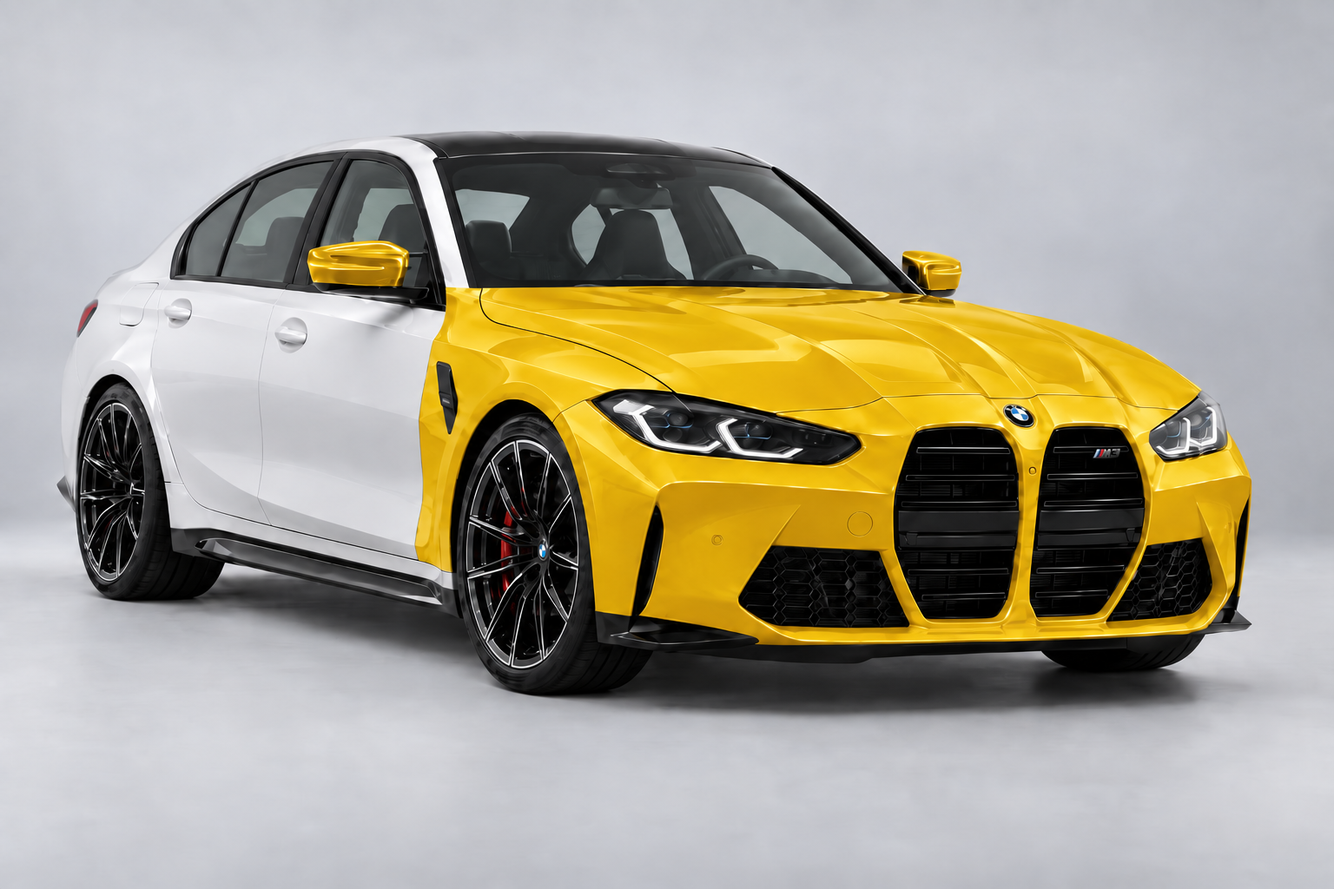
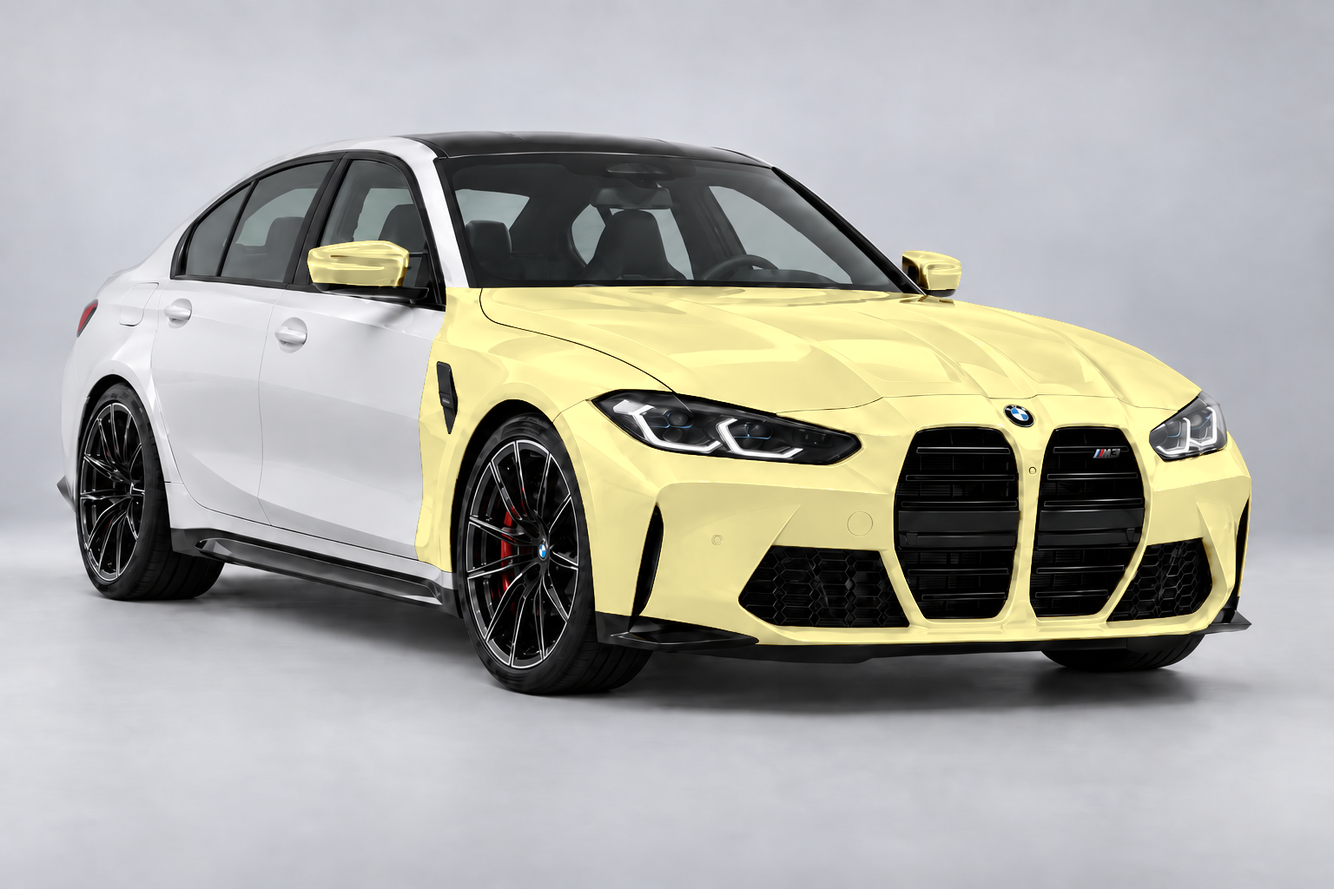
Update PPF page, add video and photo sections
- PPF: pale yellow film tint over white paint, color key, visual-guide note, Front-end default tab
- Home and About: YouTube section with VideoObject structured data
- About: Instagram section, Showcase photos, Owner / Team above Showcase

Changed region(s): [[0.2188, 0.25, 0.9375, 0.75]]

diff --git a/about.html b/about.html
@@ -28,8 +28,9 @@ body{font-family:Inter,system-ui,sans-serif;background:#050505;color:#e4e4e7}
 .card{background:#111;border:1px solid #222}
 .btn{position:relative;overflow:hidden;background:linear-gradient(145deg,#f5dfa0 0%,#d4af37 45%,#9c7a22 100%);color:#140f00;font-weight:600;box-shadow:inset 0 1px 0 rgba(255,255,255,.55),inset 0 -2px 4px rgba(0,0,0,.25),0 6px 16px -6px rgba(212,175,55,.55);transition:transform .25s ease,box-shadow .25s ease,filter .25s ease}.btn:hover{transform:translateY(-2px);filter:brightness(1.05);box-shadow:inset 0 1px 0 rgba(255,255,255,.6),inset 0 -2px 4px rgba(0,0,0,.25),0 10px 24px -6px rgba(212,175,55,.7)}.btn:active{transform:translateY(0)}.btn::before{content:'';position:absolute;inset:0;background:linear-gradient(115deg,transparent 30%,rgba(255,255,255,.55) 48%,rgba(255,255,255,.15) 56%,transparent 70%);transform:translateX(-120%);transition:transform .6s ease}.btn:hover::before{transform:translateX(120%)}
 .h2{font-size:clamp(2rem,5vw,3.1rem);font-weight:700}
-.avatar{width:76px;height:76px;border-radius:9999px;background:linear-gradient(145deg,#f5dfa0 0%,#d4af37 45%,#9c7a22 100%);color:#140f00;display:flex;align-items:center;justify-content:center;font-weight:700;font-size:1.25rem}
-.showcase-tile{aspect-ratio:4/3;background:#111;border:1px solid #222;border-radius:1.5rem;display:flex;align-items:center;justify-content:center;color:rgba(255,255,255,.2)}
+.avatar{width:76px;height:76px;border-radius:9999px;background:linear-gradient(145deg,#2a2a2a 0%,#1a1a1a 100%);border:1px solid rgba(212,175,55,.3);color:#f0c869;display:flex;align-items:center;justify-content:center;font-weight:700;font-size:1.1rem}
+.founder-card{background:radial-gradient(circle at 15% 20%,rgba(212,175,55,.12),transparent 55%),#0d0d0d;border:1px solid rgba(212,175,55,.45);box-shadow:0 20px 50px -20px rgba(212,175,55,.35)}
+.founder-avatar{width:112px;height:112px;border-radius:9999px;background:linear-gradient(145deg,#f5dfa0 0%,#d4af37 45%,#9c7a22 100%);color:#140f00;display:flex;align-items:center;justify-content:center;font-weight:700;font-size:1.75rem;box-shadow:inset 0 1px 0 rgba(255,255,255,.55),0 10px 24px -6px rgba(212,175,55,.6)}
 </style>
 </head>
 <body>
@@ -79,26 +80,17 @@ body{font-family:Inter,system-ui,sans-serif;background:#050505;color:#e4e4e7}
   </div>
 </header>
 <section class="px-6 md:px-16 py-16 max-w-6xl mx-auto border-t border-white/10">
-  <h2 class="h2 heading-font mb-3">Showcase</h2>
-  <p class="text-white/60 max-w-2xl mb-10">A look at recent work. Photos coming soon.</p>
-  <div class="grid sm:grid-cols-2 md:grid-cols-3 gap-5">
-    <div class="showcase-tile"><svg width="40" height="40" viewBox="0 0 24 24" fill="none" stroke="currentColor" stroke-width="1.5"><rect x="3" y="3" width="18" height="18" rx="2"/><circle cx="8.5" cy="8.5" r="1.5"/><path d="M21 15l-5-5L5 21"/></svg></div>
-    <div class="showcase-tile"><svg width="40" height="40" viewBox="0 0 24 24" fill="none" stroke="currentColor" stroke-width="1.5"><rect x="3" y="3" width="18" height="18" rx="2"/><circle cx="8.5" cy="8.5" r="1.5"/><path d="M21 15l-5-5L5 21"/></svg></div>
-    <div class="showcase-tile"><svg width="40" height="40" viewBox="0 0 24 24" fill="none" stroke="currentColor" stroke-width="1.5"><rect x="3" y="3" width="18" height="18" rx="2"/><circle cx="8.5" cy="8.5" r="1.5"/><path d="M21 15l-5-5L5 21"/></svg></div>
-    <div class="showcase-tile"><svg width="40" height="40" viewBox="0 0 24 24" fill="none" stroke="currentColor" stroke-width="1.5"><rect x="3" y="3" width="18" height="18" rx="2"/><circle cx="8.5" cy="8.5" r="1.5"/><path d="M21 15l-5-5L5 21"/></svg></div>
-    <div class="showcase-tile"><svg width="40" height="40" viewBox="0 0 24 24" fill="none" stroke="currentColor" stroke-width="1.5"><rect x="3" y="3" width="18" height="18" rx="2"/><circle cx="8.5" cy="8.5" r="1.5"/><path d="M21 15l-5-5L5 21"/></svg></div>
-    <div class="showcase-tile"><svg width="40" height="40" viewBox="0 0 24 24" fill="none" stroke="currentColor" stroke-width="1.5"><rect x="3" y="3" width="18" height="18" rx="2"/><circle cx="8.5" cy="8.5" r="1.5"/><path d="M21 15l-5-5L5 21"/></svg></div>
-  </div>
-</section>
-<section class="px-6 md:px-16 py-16 max-w-6xl mx-auto border-t border-white/10">
   <h2 class="h2 heading-font mb-3">Owner / Team</h2>
   <p class="text-white/60 max-w-2xl mb-10">The team behind every build.</p>
-  <div class="grid sm:grid-cols-2 md:grid-cols-4 gap-5">
-    <article class="card rounded-3xl p-7 text-center">
-      <div class="avatar mx-auto mb-4">WX</div>
-      <h3 class="text-lg font-semibold">Will Xu</h3>
-      <p class="text-white/50 text-xs tracking-[1.5px] mt-1">TEAM MEMBER</p>
-    </article>
+  <article class="founder-card rounded-3xl p-10 md:p-12 flex flex-col md:flex-row items-center md:items-start gap-8 mb-6">
+    <div class="founder-avatar shrink-0">WX</div>
+    <div class="text-center md:text-left">
+      <p class="text-[#f0c869] text-xs tracking-[3px] font-semibold mb-2">FOUNDER &amp; OWNER</p>
+      <h3 class="heading-font text-3xl md:text-4xl font-bold text-white">Will Xu</h3>
+      <p class="text-white/60 mt-3 max-w-md">Started Endless Auto Collection in Fremont and leads every build, start to finish.</p>
+    </div>
+  </article>
+  <div class="grid sm:grid-cols-3 gap-5">
     <article class="card rounded-3xl p-7 text-center">
       <div class="avatar mx-auto mb-4">YS</div>
       <h3 class="text-lg font-semibold">Yoobin Seo</h3>
@@ -116,6 +108,73 @@ body{font-family:Inter,system-ui,sans-serif;background:#050505;color:#e4e4e7}
     </article>
   </div>
 </section>
+<section class="px-6 md:px-16 py-16 max-w-6xl mx-auto border-t border-white/10">
+  <h2 class="h2 heading-font mb-3">Showcase</h2>
+  <p class="text-white/60 max-w-2xl mb-10">A look at recent work.</p>
+  <div class="columns-1 sm:columns-2 md:columns-3 gap-5">
+    <img src="images/showcase/ppf-install.jpg" alt="Applying clear paint protection film to the hood of a red car" loading="lazy" class="w-full rounded-3xl mb-5 break-inside-avoid border border-white/10">
+    <img src="images/showcase/polish.jpg" alt="Polishing the hood of a blue BMW under shop lights" loading="lazy" class="w-full rounded-3xl mb-5 break-inside-avoid border border-white/10">
+    <img src="images/showcase/m2-lift.jpg" alt="Green BMW M2 parked in front of the shop lift" loading="lazy" class="w-full rounded-3xl mb-5 break-inside-avoid border border-white/10">
+    <img src="images/showcase/supra.jpg" alt="Rear of a red Toyota Supra Turbo with the wing and taillights" loading="lazy" class="w-full rounded-3xl mb-5 break-inside-avoid border border-white/10">
+    <img src="images/showcase/m4-lift.jpg" alt="White BMW M4 outside the shop with an M3 on the lift behind it" loading="lazy" class="w-full rounded-3xl mb-5 break-inside-avoid border border-white/10">
+    <img src="images/showcase/grinder.jpg" alt="Cutting an exhaust pipe with an angle grinder, sparks flying" loading="lazy" class="w-full rounded-3xl mb-5 break-inside-avoid border border-white/10">
+    <img src="images/showcase/night-drive.jpg" alt="Blue widebody sedan driving at night in the rain" loading="lazy" class="w-full rounded-3xl mb-5 break-inside-avoid border border-white/10">
+    <img src="images/showcase/bike.jpg" alt="Motorcycle and a blue sedan in front of hexagon lighting" loading="lazy" class="w-full rounded-3xl mb-5 break-inside-avoid border border-white/10">
+    <img src="images/showcase/engine-bay.jpg" alt="Technician in blue gloves working in an engine bay" loading="lazy" class="w-full rounded-3xl mb-5 break-inside-avoid border border-white/10">
+    <img src="images/showcase/team.jpg" alt="The Endless team gathered in the shop" loading="lazy" class="w-full rounded-3xl mb-5 break-inside-avoid border border-white/10">
+  </div>
+</section>
+<section id="instagram" class="px-6 md:px-16 py-20 bg-[#0a0a0a] border-y border-white/10">
+  <div class="max-w-6xl mx-auto grid md:grid-cols-2 gap-10 md:gap-16 items-center">
+    <div>
+      <p class="text-xs tracking-[3px] text-[#f0c869] mb-3">INSTAGRAM</p>
+      <h2 class="h2 heading-font mb-4">See the shop.</h2>
+      <p class="text-white/65 max-w-md mb-6">PPF, tint, ceramic, and wraps as they leave 41907 Albrae. The profile is the live feed — this page stays fast.</p>
+      <p class="text-white mb-8"><a class="underline" href="https://www.instagram.com/endlessautocollection/" target="_blank" rel="noopener noreferrer">@endlessautocollection</a></p>
+      <div class="flex flex-wrap gap-4">
+        <a href="https://www.instagram.com/endlessautocollection/" target="_blank" rel="noopener noreferrer" class="btn inline-block px-8 py-3 rounded-2xl">Follow on Instagram</a>
+      </div>
+    </div>
+    <div class="rounded-3xl border border-white/10 bg-black overflow-hidden min-h-[420px] flex justify-center">
+      <blockquote class="instagram-media" data-instgrm-permalink="https://www.instagram.com/endlessautocollection/" data-instgrm-version="14" style="background:#000;border:0;margin:0 auto;max-width:100%;width:100%;min-width:280px"></blockquote>
+    </div>
+  </div>
+</section>
+<section id="youtube" class="px-6 md:px-16 py-20 max-w-6xl mx-auto">
+  <p class="text-xs tracking-[3px] text-[#f0c869] mb-3">YOUTUBE</p>
+  <h2 class="h2 heading-font mb-4">Watch the work.</h2>
+  <p class="text-white/65 max-w-xl mb-8">Builds, details, and shop days from Endless Autoworks. Press play to watch here.</p>
+  <div class="grid md:grid-cols-3 gap-5">
+      <div class="card rounded-3xl overflow-hidden">
+        <button type="button" class="yt-lite relative block w-full aspect-video bg-black" data-yt="dWNpwu3I82M" aria-label="Play: Getting Our F80 M3 Ready for Touchdown | Revshift Bushings + Bilstein EDC Shocks">
+          <img src="https://i.ytimg.com/vi/dWNpwu3I82M/hqdefault.jpg" alt="Getting Our F80 M3 Ready for Touchdown | Revshift Bushings + Bilstein EDC Shocks" loading="lazy" class="absolute inset-0 w-full h-full object-cover">
+          <span class="absolute inset-0 flex items-center justify-center"><span class="w-14 h-14 rounded-full bg-black/60 backdrop-blur border border-white/30 flex items-center justify-center"><svg class="w-6 h-6 text-white ml-0.5" viewBox="0 0 24 24" fill="currentColor"><path d="M8 5v14l11-7z"/></svg></span></span>
+        </button>
+        <h3 class="text-base font-semibold p-4">Getting Our F80 M3 Ready for Touchdown | Revshift Bushings + Bilstein EDC Shocks</h3>
+      </div>
+      <div class="card rounded-3xl overflow-hidden">
+        <button type="button" class="yt-lite relative block w-full aspect-video bg-black" data-yt="L2c1o-Qete8" aria-label="Play: This Toyota Sienna Needed a Reset | Full Car Detail">
+          <img src="https://i.ytimg.com/vi/L2c1o-Qete8/hqdefault.jpg" alt="This Toyota Sienna Needed a Reset | Full Car Detail" loading="lazy" class="absolute inset-0 w-full h-full object-cover">
+          <span class="absolute inset-0 flex items-center justify-center"><span class="w-14 h-14 rounded-full bg-black/60 backdrop-blur border border-white/30 flex items-center justify-center"><svg class="w-6 h-6 text-white ml-0.5" viewBox="0 0 24 24" fill="currentColor"><path d="M8 5v14l11-7z"/></svg></span></span>
+        </button>
+        <h3 class="text-base font-semibold p-4">This Toyota Sienna Needed a Reset | Full Car Detail</h3>
+      </div>
+      <div class="card rounded-3xl overflow-hidden">
+        <button type="button" class="yt-lite relative block w-full aspect-video bg-black" data-yt="oZxXJGU6hEc" aria-label="Play: We Turned Our Auto Shop Into a Peaky Blinders Party">
+          <img src="https://i.ytimg.com/vi/oZxXJGU6hEc/hqdefault.jpg" alt="We Turned Our Auto Shop Into a Peaky Blinders Party" loading="lazy" class="absolute inset-0 w-full h-full object-cover">
+          <span class="absolute inset-0 flex items-center justify-center"><span class="w-14 h-14 rounded-full bg-black/60 backdrop-blur border border-white/30 flex items-center justify-center"><svg class="w-6 h-6 text-white ml-0.5" viewBox="0 0 24 24" fill="currentColor"><path d="M8 5v14l11-7z"/></svg></span></span>
+        </button>
+        <h3 class="text-base font-semibold p-4">We Turned Our Auto Shop Into a Peaky Blinders Party</h3>
+      </div>
+  </div>
+  <div class="mt-8 flex flex-wrap gap-4">
+    <a href="https://www.youtube.com/@EndlessAutoworks" target="_blank" rel="noopener noreferrer" class="btn inline-block px-8 py-3 rounded-2xl">Subscribe on YouTube</a>
+  </div>
+</section>
+<script type="application/ld+json">[{"@context": "https://schema.org", "@type": "VideoObject", "name": "Getting Our F80 M3 Ready for Touchdown | Revshift Bushings + Bilstein EDC Shocks", "description": "Our F80 BMW M3 has sat on the lift for weeks. We work through the complications and line up Revshift bushings and Bilstein EDC shocks.", "thumbnailUrl": "https://i.ytimg.com/vi/dWNpwu3I82M/hqdefault.jpg", "uploadDate": "2026-10-08T12:03:45-07:00", "duration": "PT2M21S", "embedUrl": "https://www.youtube-nocookie.com/embed/dWNpwu3I82M", "contentUrl": "https://www.youtube.com/watch?v=dWNpwu3I82M"}, {"@context": "https://schema.org", "@type": "VideoObject", "name": "This Toyota Sienna Needed a Reset | Full Car Detail", "description": "Trash, dirty carpets, and a Toyota Sienna ready for a fresh start. A full car detail, behind the scenes at Endless Autoworks.", "thumbnailUrl": "https://i.ytimg.com/vi/L2c1o-Qete8/hqdefault.jpg", "uploadDate": "2026-10-07T10:52:26-07:00", "duration": "PT2M20S", "embedUrl": "https://www.youtube-nocookie.com/embed/L2c1o-Qete8", "contentUrl": "https://www.youtube.com/watch?v=L2c1o-Qete8"}, {"@context": "https://schema.org", "@type": "VideoObject", "name": "We Turned Our Auto Shop Into a Peaky Blinders Party", "description": "We turned Endless Autoworks into a Peaky Blinders-inspired after-hours party.", "thumbnailUrl": "https://i.ytimg.com/vi/oZxXJGU6hEc/hqdefault.jpg", "uploadDate": "2026-10-06T11:59:03-07:00", "duration": "PT6M57S", "embedUrl": "https://www.youtube-nocookie.com/embed/oZxXJGU6hEc", "contentUrl": "https://www.youtube.com/watch?v=oZxXJGU6hEc"}]</script>
+<script>
+document.querySelectorAll('.yt-lite').forEach(b=>b.addEventListener('click',()=>{const f=document.createElement('iframe');f.src='https://www.youtube-nocookie.com/embed/'+b.dataset.yt+'?autoplay=1&rel=0';f.title=b.getAttribute('aria-label').replace('Play: ','');f.allow='autoplay; encrypted-media; picture-in-picture; fullscreen';f.allowFullscreen=true;f.className='block w-full aspect-video';f.style.border='0';b.replaceWith(f)}));
+</script>
 <section class="px-6 md:px-16 py-16 bg-[#0a0a0a] text-center">
   <h2 class="h2 heading-font mb-4">Let's work on your car.</h2>
   <button onclick="openQuote()" class="btn px-10 py-3 rounded-2xl">Request a consultation</button>
@@ -148,4 +207,5 @@ window.addEventListener('resize',()=>{if(window.innerWidth>=768)document.getElem
 window.addEventListener('scroll',()=>document.getElementById('navbar').classList.toggle('nav-scrolled',scrollY>70));
 </script>
 <script src="/js/bg-music.js"></script>
+<script async src="https://www.instagram.com/embed.js"></script>
 </body></html>

diff --git a/index.html b/index.html
@@ -309,13 +309,48 @@ body{font-family:Inter,system-ui,sans-serif;background:#050505;color:#e4e4e7}
       <h2 class="h2 heading-font mb-4">See the shop.</h2>
       <p class="text-white/65 max-w-md mb-6">PPF, tint, ceramic, and wraps as they leave 41907 Albrae. The profile is the live feed — this page stays fast.</p>
       <p class="text-white mb-8"><a class="underline" href="https://www.instagram.com/endlessautocollection/" target="_blank" rel="noopener noreferrer">@endlessautocollection</a></p>
-      <a href="https://www.instagram.com/endlessautocollection/" target="_blank" rel="noopener noreferrer" class="btn inline-block px-8 py-3 rounded-2xl">Follow on Instagram</a>
+      <div class="flex flex-wrap gap-4">
+        <a href="https://www.instagram.com/endlessautocollection/" target="_blank" rel="noopener noreferrer" class="btn inline-block px-8 py-3 rounded-2xl">Follow on Instagram</a>
+      </div>
     </div>
     <div class="rounded-3xl border border-white/10 bg-black overflow-hidden min-h-[420px] flex justify-center">
       <blockquote class="instagram-media" data-instgrm-permalink="https://www.instagram.com/endlessautocollection/" data-instgrm-version="14" style="background:#000;border:0;margin:0 auto;max-width:100%;width:100%;min-width:280px"></blockquote>
     </div>
   </div>
 </section>
+<section id="youtube" class="px-6 md:px-16 py-20 max-w-6xl mx-auto">
+  <p class="text-xs tracking-[3px] text-[#f0c869] mb-3">YOUTUBE</p>
+  <h2 class="h2 heading-font mb-4">Watch the work.</h2>
+  <p class="text-white/65 max-w-xl mb-8">Builds, details, and shop days from Endless Autoworks. Press play to watch here.</p>
+  <div class="grid md:grid-cols-3 gap-5">
+      <div class="card rounded-3xl overflow-hidden">
+        <button type="button" class="yt-lite relative block w-full aspect-video bg-black" data-yt="dWNpwu3I82M" aria-label="Play: Getting Our F80 M3 Ready for Touchdown | Revshift Bushings + Bilstein EDC Shocks">
+          <img src="https://i.ytimg.com/vi/dWNpwu3I82M/hqdefault.jpg" alt="Getting Our F80 M3 Ready for Touchdown | Revshift Bushings + Bilstein EDC Shocks" loading="lazy" class="absolute inset-0 w-full h-full object-cover">
+          <span class="absolute inset-0 flex items-center justify-center"><span class="w-14 h-14 rounded-full bg-black/60 backdrop-blur border border-white/30 flex items-center justify-center"><svg class="w-6 h-6 text-white ml-0.5" viewBox="0 0 24 24" fill="currentColor"><path d="M8 5v14l11-7z"/></svg></span></span>
+        </button>
+        <h3 class="text-base font-semibold p-4">Getting Our F80 M3 Ready for Touchdown | Revshift Bushings + Bilstein EDC Shocks</h3>
+      </div>
+      <div class="card rounded-3xl overflow-hidden">
+        <button type="button" class="yt-lite relative block w-full aspect-video bg-black" data-yt="L2c1o-Qete8" aria-label="Play: This Toyota Sienna Needed a Reset | Full Car Detail">
+          <img src="https://i.ytimg.com/vi/L2c1o-Qete8/hqdefault.jpg" alt="This Toyota Sienna Needed a Reset | Full Car Detail" loading="lazy" class="absolute inset-0 w-full h-full object-cover">
+          <span class="absolute inset-0 flex items-center justify-center"><span class="w-14 h-14 rounded-full bg-black/60 backdrop-blur border border-white/30 flex items-center justify-center"><svg class="w-6 h-6 text-white ml-0.5" viewBox="0 0 24 24" fill="currentColor"><path d="M8 5v14l11-7z"/></svg></span></span>
+        </button>
+        <h3 class="text-base font-semibold p-4">This Toyota Sienna Needed a Reset | Full Car Detail</h3>
+      </div>
+      <div class="card rounded-3xl overflow-hidden">
+        <button type="button" class="yt-lite relative block w-full aspect-video bg-black" data-yt="oZxXJGU6hEc" aria-label="Play: We Turned Our Auto Shop Into a Peaky Blinders Party">
+          <img src="https://i.ytimg.com/vi/oZxXJGU6hEc/hqdefault.jpg" alt="We Turned Our Auto Shop Into a Peaky Blinders Party" loading="lazy" class="absolute inset-0 w-full h-full object-cover">
+          <span class="absolute inset-0 flex items-center justify-center"><span class="w-14 h-14 rounded-full bg-black/60 backdrop-blur border border-white/30 flex items-center justify-center"><svg class="w-6 h-6 text-white ml-0.5" viewBox="0 0 24 24" fill="currentColor"><path d="M8 5v14l11-7z"/></svg></span></span>
+        </button>
+        <h3 class="text-base font-semibold p-4">We Turned Our Auto Shop Into a Peaky Blinders Party</h3>
+      </div>
+  </div>
+  <p class="mt-8"><a href="https://www.youtube.com/@EndlessAutoworks" target="_blank" rel="noopener noreferrer" class="btn inline-block px-8 py-3 rounded-2xl">Subscribe on YouTube</a></p>
+</section>
+<script type="application/ld+json">[{"@context": "https://schema.org", "@type": "VideoObject", "name": "Getting Our F80 M3 Ready for Touchdown | Revshift Bushings + Bilstein EDC Shocks", "description": "Our F80 BMW M3 has sat on the lift for weeks. We work through the complications and line up Revshift bushings and Bilstein EDC shocks.", "thumbnailUrl": "https://i.ytimg.com/vi/dWNpwu3I82M/hqdefault.jpg", "uploadDate": "2026-10-08T12:03:45-07:00", "duration": "PT2M21S", "embedUrl": "https://www.youtube-nocookie.com/embed/dWNpwu3I82M", "contentUrl": "https://www.youtube.com/watch?v=dWNpwu3I82M"}, {"@context": "https://schema.org", "@type": "VideoObject", "name": "This Toyota Sienna Needed a Reset | Full Car Detail", "description": "Trash, dirty carpets, and a Toyota Sienna ready for a fresh start. A full car detail, behind the scenes at Endless Autoworks.", "thumbnailUrl": "https://i.ytimg.com/vi/L2c1o-Qete8/hqdefault.jpg", "uploadDate": "2026-10-07T10:52:26-07:00", "duration": "PT2M20S", "embedUrl": "https://www.youtube-nocookie.com/embed/L2c1o-Qete8", "contentUrl": "https://www.youtube.com/watch?v=L2c1o-Qete8"}, {"@context": "https://schema.org", "@type": "VideoObject", "name": "We Turned Our Auto Shop Into a Peaky Blinders Party", "description": "We turned Endless Autoworks into a Peaky Blinders-inspired after-hours party.", "thumbnailUrl": "https://i.ytimg.com/vi/oZxXJGU6hEc/hqdefault.jpg", "uploadDate": "2026-10-06T11:59:03-07:00", "duration": "PT6M57S", "embedUrl": "https://www.youtube-nocookie.com/embed/oZxXJGU6hEc", "contentUrl": "https://www.youtube.com/watch?v=oZxXJGU6hEc"}]</script>
+<script>
+document.querySelectorAll('.yt-lite').forEach(b=>b.addEventListener('click',()=>{const f=document.createElement('iframe');f.src='https://www.youtube-nocookie.com/embed/'+b.dataset.yt+'?autoplay=1&rel=0';f.title=b.getAttribute('aria-label').replace('Play: ','');f.allow='autoplay; encrypted-media; picture-in-picture; fullscreen';f.allowFullscreen=true;f.className='block w-full aspect-video';f.style.border='0';b.replaceWith(f)}));
+</script>
 <footer class="px-6 py-14 text-sm max-w-6xl mx-auto grid md:grid-cols-2 gap-8">
   <div>
     <div class="font-black text-2xl tracking-[-1px] leading-none">ENDLESS</div>

diff --git a/ppf.html b/ppf.html
@@ -71,15 +71,21 @@ body{font-family:Inter,system-ui,sans-serif;background:#050505;color:#e4e4e7}
   <p class="text-xs tracking-[3px] text-[#f0c869] mb-3">FREMONT PPF</p>
   <h1 class="heading-font text-4xl md:text-6xl text-white mb-4">Paint Protection Film Packages</h1>
   <p class="text-white/65 max-w-2xl mb-10">Two scopes. Same film standard. Pick the coverage that matches how you drive I-880.</p>
-  <div class="card rounded-3xl p-4 md:p-6 mb-5">
+  <div id="coverage-card" class="card rounded-3xl p-4 md:p-6 mb-5">
     <div class="flex items-center justify-center gap-2 mb-4">
-      <button id="cov-full-btn" onclick="setCoverage('full')" class="px-5 py-2 rounded-full text-sm font-medium border border-[#d4af37] bg-[#d4af37]/15 text-[#f0c869] transition-colors">Full body</button>
-      <button id="cov-front-btn" onclick="setCoverage('front')" class="px-5 py-2 rounded-full text-sm font-medium border border-white/15 text-white/60 transition-colors">Front-end</button>
+      <button id="cov-front-btn" onclick="setCoverage('front')" class="px-5 py-2 rounded-full text-sm font-medium border border-[#d4af37] bg-[#d4af37]/15 text-[#f0c869] transition-colors">Front-end</button>
+      <button id="cov-full-btn" onclick="setCoverage('full')" class="px-5 py-2 rounded-full text-sm font-medium border border-white/15 text-white/60 transition-colors">Full body</button>
     </div>
     <div class="relative rounded-2xl overflow-hidden aspect-[3/2] bg-black">
-      <img id="cov-full-img" src="images/ppf-full-body-m3.png" alt="Full body PPF coverage on M3" class="absolute inset-0 w-full h-full object-cover transition-opacity duration-500 opacity-100">
-      <img id="cov-front-img" src="images/ppf-front-end-m3.png" alt="Front-end PPF coverage on M3" class="absolute inset-0 w-full h-full object-cover transition-opacity duration-500 opacity-0">
+      <img id="cov-full-img" src="images/ppf-full-body-m3.png" alt="Full body PPF coverage on M3" class="absolute inset-0 w-full h-full object-cover transition-opacity duration-500 opacity-0">
+      <img id="cov-front-img" src="images/ppf-front-end-m3.png" alt="Front-end PPF coverage on M3" class="absolute inset-0 w-full h-full object-cover transition-opacity duration-500 opacity-100">
+      <div class="absolute left-3 bottom-3 md:left-5 md:bottom-5 rounded-xl bg-black/60 backdrop-blur-md border border-white/15 px-3 py-2.5 md:px-4 md:py-3 text-xs md:text-sm text-white/90">
+        <p class="text-[10px] tracking-[2px] text-white/50 mb-1.5">COLOR KEY</p>
+        <p class="flex items-center gap-2"><span class="inline-block w-3.5 h-3.5 rounded-full border border-white/40" style="background:#f3e8a0"></span>Film applied</p>
+        <p id="key-white" class="flex items-center gap-2 mt-1"><span class="inline-block w-3.5 h-3.5 rounded-full border border-white/40 bg-white"></span>Not covered</p>
+      </div>
     </div>
+    <p class="text-white/55 text-xs md:text-sm text-center mt-4 max-w-2xl mx-auto">The yellow is only a visual guide to show where film goes. It isn't colored PPF or a vinyl wrap, and your car keeps its original color.</p>
   </div>
   <div class="grid md:grid-cols-2 gap-5">
     <a href="ppf-full.html" class="card rounded-3xl p-8 block"><p class="text-[#f0c869] text-xs tracking-[2px] mb-2">MOST POPULAR</p><h2 class="text-3xl font-semibold mb-3">Full body PPF</h2><p class="text-white/70">Hood, fenders, doors, roof, mirrors, rear — painted surfaces covered.</p></a>
@@ -125,8 +131,11 @@ function openQuote(){const m=document.getElementById('quote');m.classList.remove
 function closeQuote(){const m=document.getElementById('quote');m.style.display='none';m.classList.add('hidden');document.body.style.overflow=''}
 function setCoverage(mode){
   const full=mode==='full';
+  const card=document.getElementById('coverage-card'),r=card.getBoundingClientRect(),top=80,room=innerHeight-top;
+  if(r.top<top||r.bottom>innerHeight){const y=scrollY+r.top-top-(r.height<room?(room-r.height)/2:0);scrollTo({top:Math.max(0,y),behavior:'smooth'})}
   document.getElementById('cov-full-img').style.opacity=full?'1':'0';
   document.getElementById('cov-front-img').style.opacity=full?'0':'1';
+  document.getElementById('key-white').style.display=full?'none':'';
   document.getElementById('cov-full-btn').className='px-5 py-2 rounded-full text-sm font-medium border transition-colors '+(full?'border-[#d4af37] bg-[#d4af37]/15 text-[#f0c869]':'border-white/15 text-white/60');
   document.getElementById('cov-front-btn').className='px-5 py-2 rounded-full text-sm font-medium border transition-colors '+(full?'border-white/15 text-white/60':'border-[#d4af37] bg-[#d4af37]/15 text-[#f0c869]');
 }
